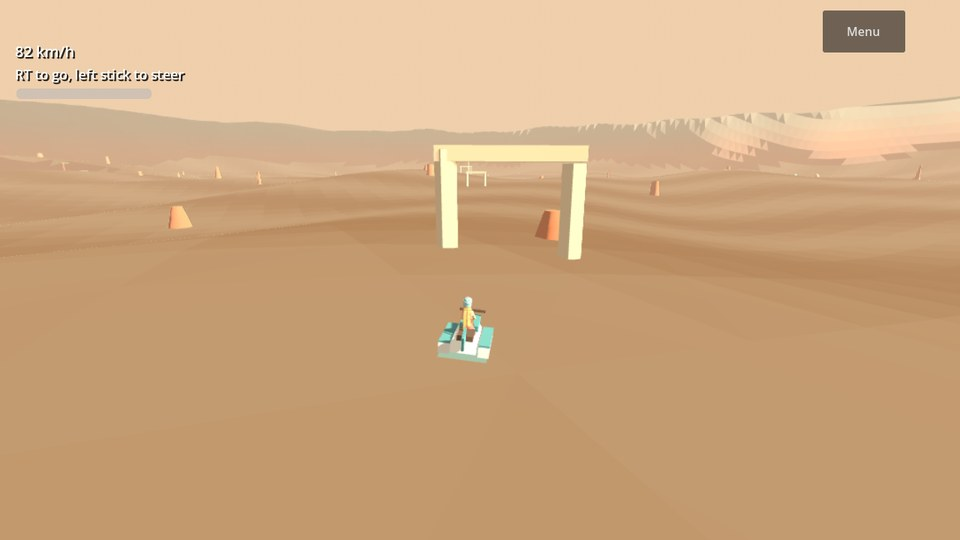
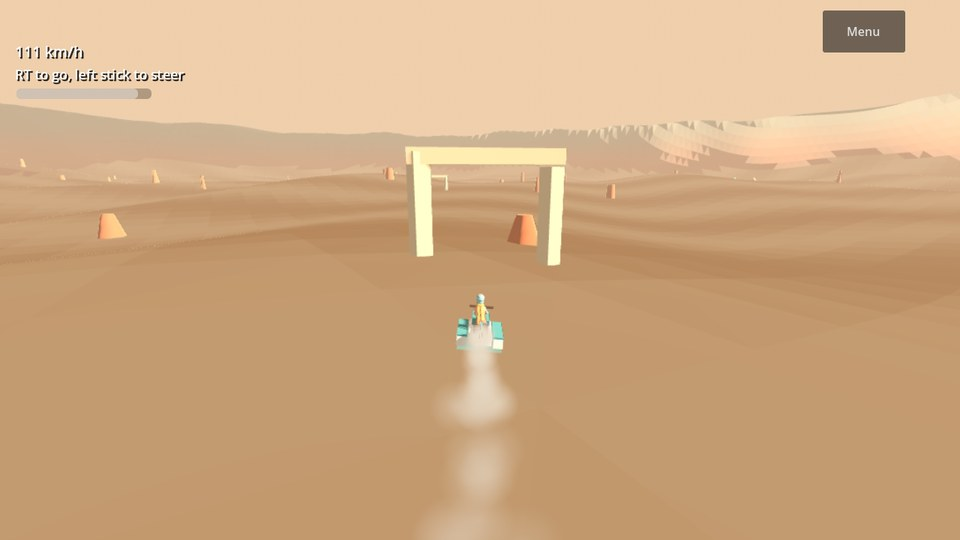
Glasswind card: 0.5.0
Claude-Session: https://claude.ai/code/session_0117TTYDMWhCiD16zmkBafDq

diff --git a/index.html b/index.html
@@ -149,11 +149,11 @@ footer{margin-top:40px;color:var(--soft);font-size:14px;text-align:center}
 </article>
 
 <article class="card" data-repo="glasswind">
-<a class="shot" href="glasswind/"><img src="images/glasswind.jpg?v=0.4.0" alt="Glasswind: the rider on the hover bike at speed through a stone arch in a sandy desert basin" width="960" height="540" loading="lazy"></a>
+<a class="shot" href="glasswind/"><img src="images/glasswind.jpg?v=0.5.0" alt="Glasswind: the rider on the hover bike boosting toward a stone arch, a trail of sand smoke behind in a sandy desert basin" width="960" height="540" loading="lazy"></a>
 <div class="body">
 <div class="top"><h2><a href="glasswind/">Glasswind</a></h2><span class="tag">Ride the quiet desert</span></div>
 <p class="desc">Ride a hover bike across a quiet desert basin. Climb old ruins, glide down from the top, ride warm updrafts, help the nomads and earn the sigil of who you will become. Nothing can hurt you. Five save slots. Plays with touch, a keyboard or an Xbox controller, held upright or sideways.</p>
-<p class="meta">Browser and Android<span class="ver"> · Version 0.4.0</span> <span class="upd">· Updated <time datetime="2026-11-18T17:07-06:00">Nov 18, 2026, 5:07 PM CT</time></span></p>
+<p class="meta">Browser and Android<span class="ver"> · Version 0.5.0</span> <span class="upd">· Updated <time datetime="2026-11-18T17:20-06:00">Nov 18, 2026, 5:20 PM CT</time></span></p>
 <div class="actions"><a class="btn" href="glasswind/">Open game page</a></div>
 </div>
 </article>
